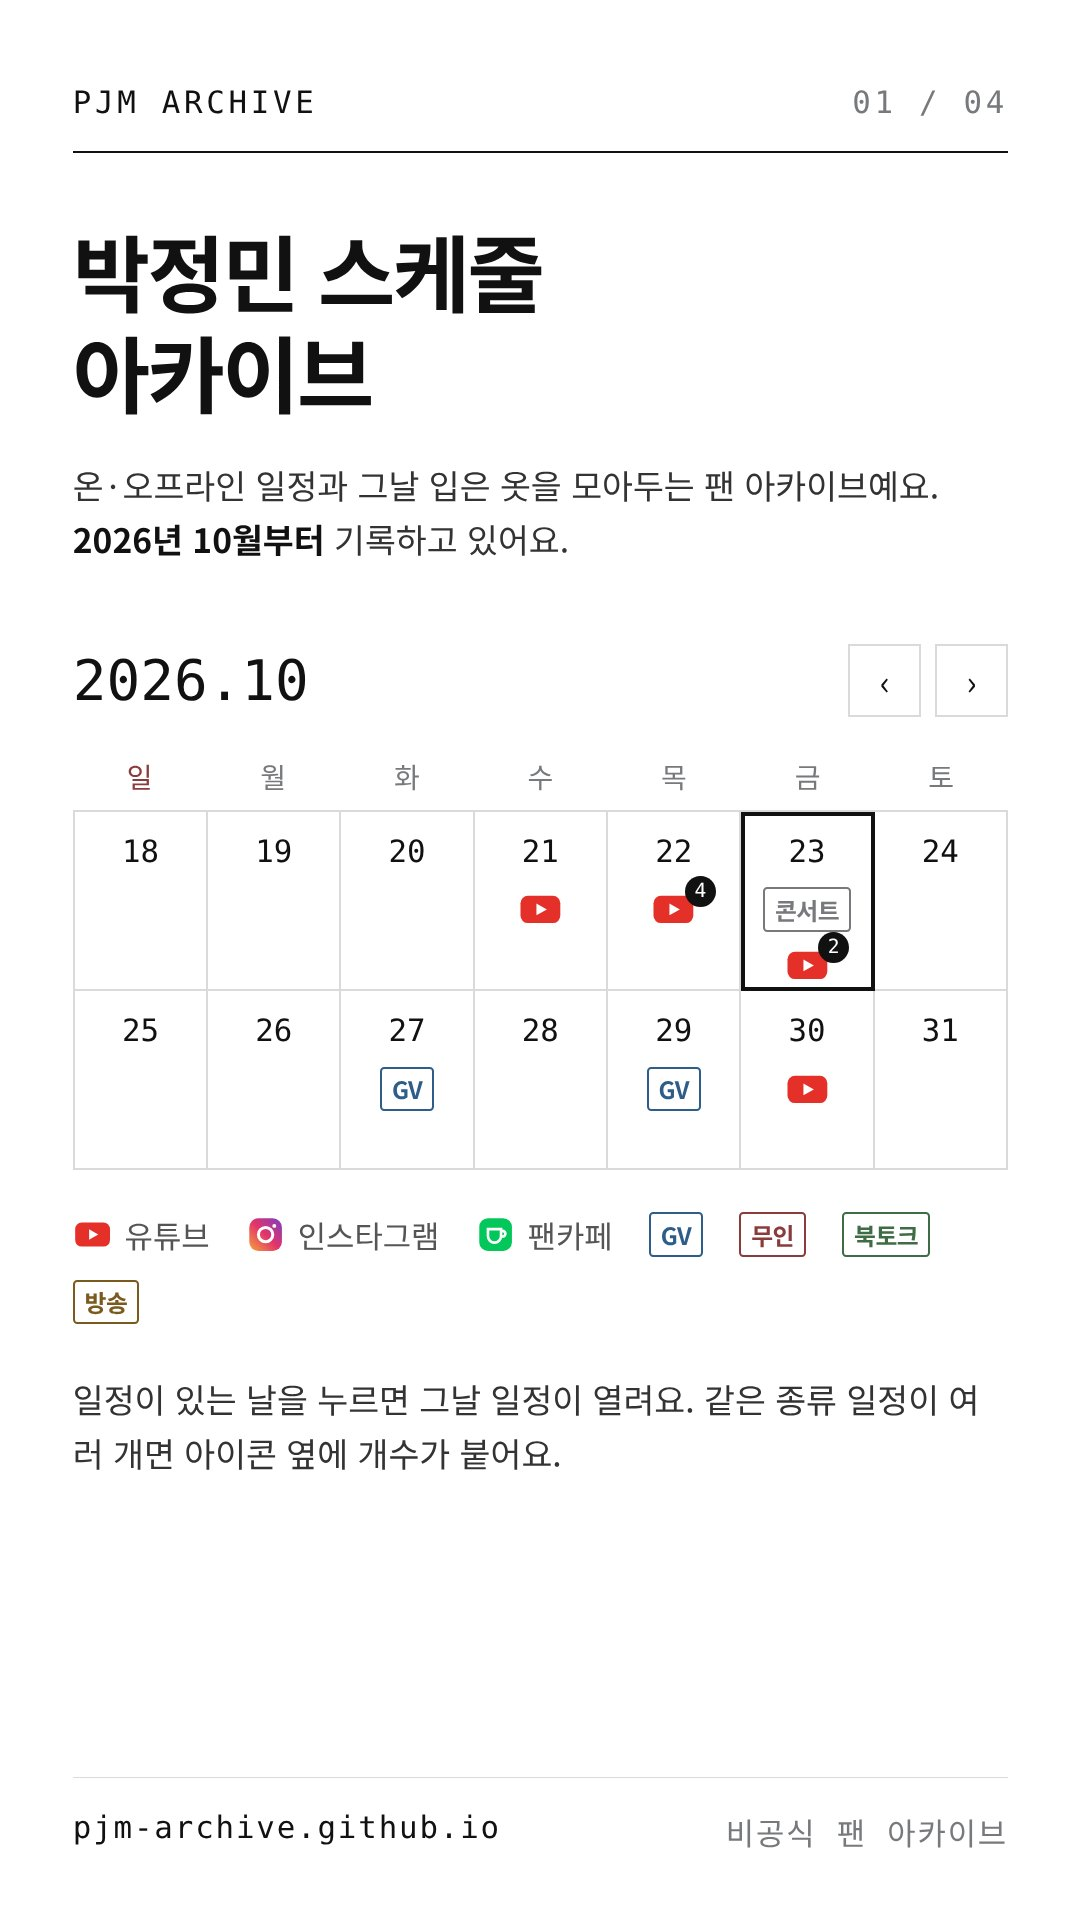
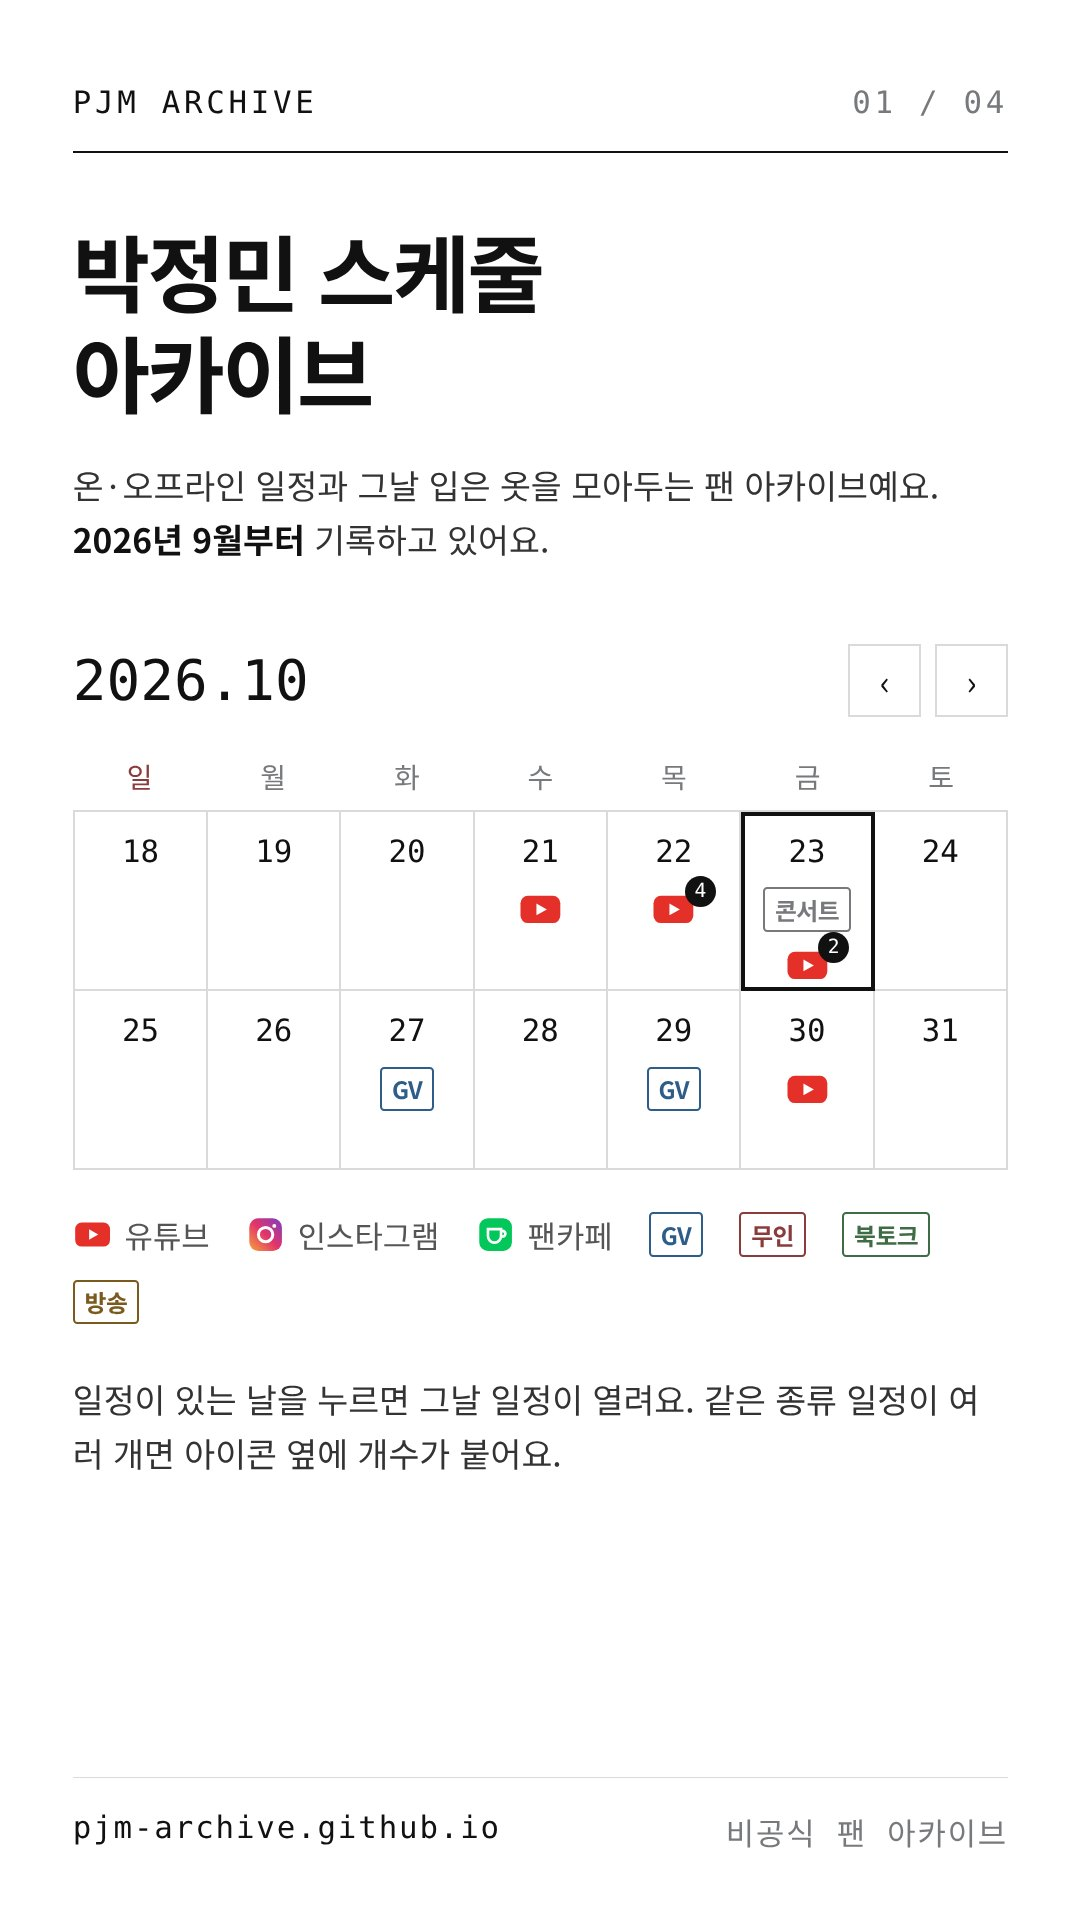
이용 안내 문구 '9월부터 기록'으로 수정
Claude-Session: https://claude.ai/code/session_01GJNuSoPHwJcHRnpXvU6crM

diff --git a/index.html b/index.html
@@ -342,10 +342,10 @@ main{padding-block:20px 32px}
   <div class="g-in">
     <div class="g-bar"><span>사이트 이용 안내 · <span id="gPos">1 / 4</span></span><button class="icon-btn" id="gClose" aria-label="닫기"><svg viewBox="0 0 16 16"><path d="M3.5 3.5l9 9M12.5 3.5l-9 9"/></svg></button></div>
     <div class="g-track" id="gTrack">
-      <img src="images/guide/guide-1.jpg?v=2" alt="1. 박정민 스케줄 아카이브 소개. 2026년 10월부터 온·오프라인 일정과 그날 입은 옷을 기록해요. 일정이 있는 날을 누르면 그날 일정이 열려요." loading="lazy">
-      <img src="images/guide/guide-2.jpg?v=2" alt="2. 밑줄 친 일정을 누르면 영상과 그날 입은 아이템이 함께 나오는 상세 카드가 열려요." loading="lazy">
-      <img src="images/guide/guide-3.jpg?v=2" alt="3. 아이템정보 탭에서는 상품 사진부터 보고, 누르면 상품 정보와 구매 링크, 착용 일정이 나와요. 구매 링크는 판매 종료 등으로 안 열릴 수 있어요." loading="lazy">
-      <img src="images/guide/guide-4.jpg?v=2" alt="4. 카드 상단의 화살표나 좌우 스와이프로 이전·다음 일정과 아이템으로 넘길 수 있어요." loading="lazy">
+      <img src="images/guide/guide-1.jpg?v=3" alt="1. 박정민 스케줄 아카이브 소개. 2026년 10월부터 온·오프라인 일정과 그날 입은 옷을 기록해요. 일정이 있는 날을 누르면 그날 일정이 열려요." loading="lazy">
+      <img src="images/guide/guide-2.jpg?v=3" alt="2. 밑줄 친 일정을 누르면 영상과 그날 입은 아이템이 함께 나오는 상세 카드가 열려요." loading="lazy">
+      <img src="images/guide/guide-3.jpg?v=3" alt="3. 아이템정보 탭에서는 상품 사진부터 보고, 누르면 상품 정보와 구매 링크, 착용 일정이 나와요. 구매 링크는 판매 종료 등으로 안 열릴 수 있어요." loading="lazy">
+      <img src="images/guide/guide-4.jpg?v=3" alt="4. 카드 상단의 화살표나 좌우 스와이프로 이전·다음 일정과 아이템으로 넘길 수 있어요." loading="lazy">
     </div>
     <div class="g-nav"><button class="icon-btn" id="gPrev" aria-label="이전 안내"><svg viewBox="0 0 16 16"><path d="M10 3 5 8l5 5"/></svg></button><span class="g-dots" id="gDots"><i class="on"></i><i></i><i></i><i></i></span><button class="icon-btn" id="gNext" aria-label="다음 안내"><svg viewBox="0 0 16 16"><path d="m6 3 5 5-5 5"/></svg></button></div>
   </div>
